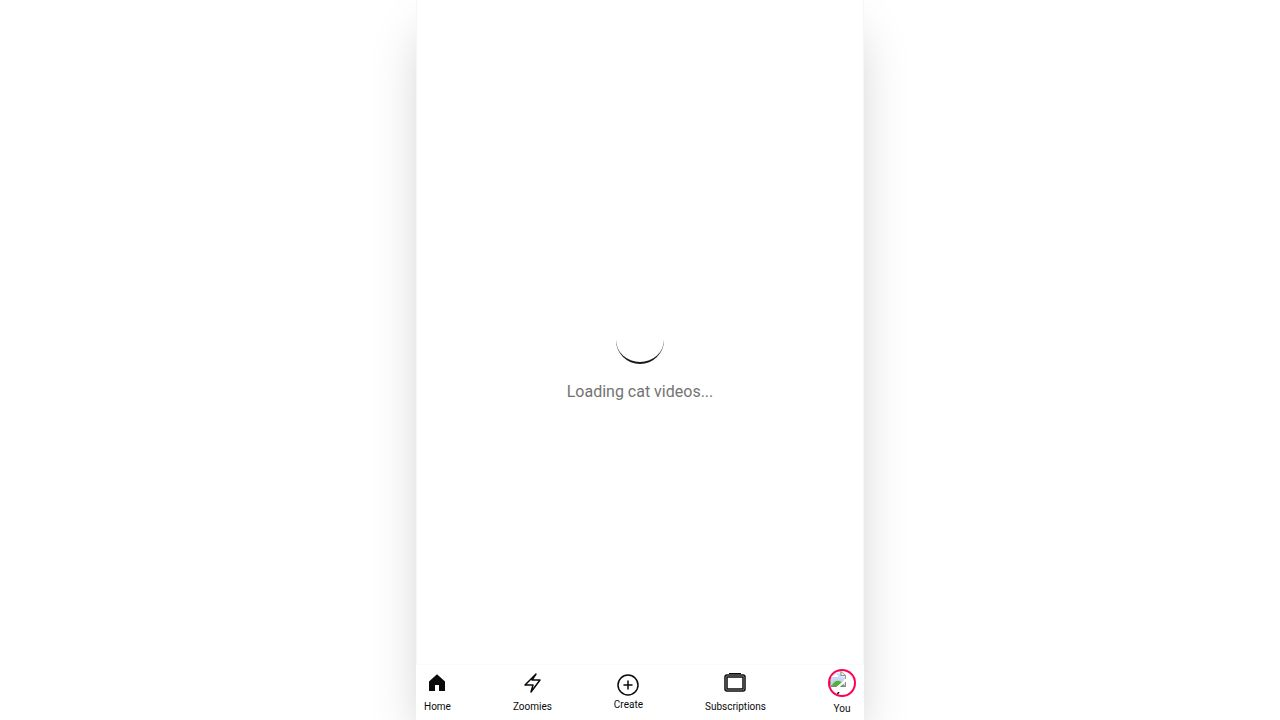
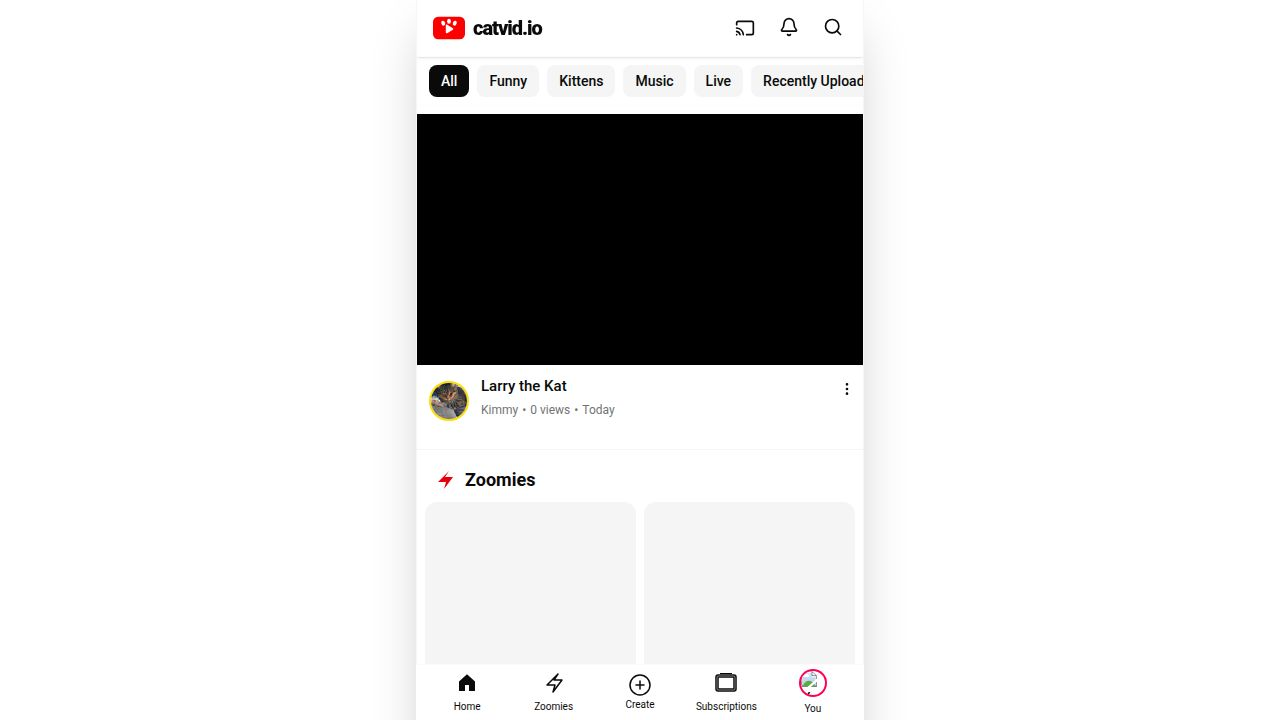
Prioritize hero video and sort videos for better display on home page
Update Home.tsx to sort videos, prioritizing "Larry The Kat" as the hero and ensuring wide videos appear before shorts.

Replit-Commit-Author: Agent
Replit-Commit-Session-Id: 219dba26-c5c7-407c-955d-f5845a96aa23
Replit-Commit-Checkpoint-Type: full_checkpoint
Replit-Commit-Event-Id: 78aad092-e829-40e8-b5ec-23069720b449
Replit-Commit-Screenshot-Url: https://storage.googleapis.com/screenshot-production-us-central1/736a2394-3e50-43e3-b386-40de6a914f2e/219dba26-c5c7-407c-955d-f5845a96aa23/KWpCcti
Replit-Helium-Checkpoint-Created: true

diff --git a/client/src/pages/Home.tsx b/client/src/pages/Home.tsx
@@ -35,7 +35,26 @@ export default function Home() {
     fetchAllVideos()
       .then(data => {
         const formatted = data.map(formatVideoForComponent);
-        setVideos(formatted);
+        
+        // Sort videos: wide videos first (sorted by views/recency), then shorts
+        // Also prioritize "Larry The Kat" as the hero video
+        const sorted = formatted.sort((a: any, b: any) => {
+          // Wide videos come before shorts
+          if (a.type === 'video' && b.type === 'short') return -1;
+          if (a.type === 'short' && b.type === 'video') return 1;
+          
+          // Within wide videos, prioritize "Larry The Kat" as hero
+          if (a.type === 'video' && b.type === 'video') {
+            const aIsLarry = a.title?.toLowerCase().includes('larry');
+            const bIsLarry = b.title?.toLowerCase().includes('larry');
+            if (aIsLarry && !bIsLarry) return -1;
+            if (!aIsLarry && bIsLarry) return 1;
+          }
+          
+          return 0;
+        });
+        
+        setVideos(sorted);
         setLoading(false);
       })
       .catch(err => {
